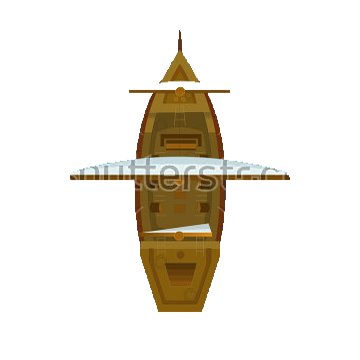
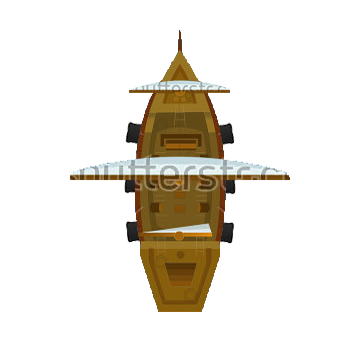
explotion sprite fix, crosshair cooldown indicator

diff --git a/public/main.js b/public/main.js
@@ -284,6 +284,27 @@ function drawPlayer(){
         1.125*Math.PI);
     ctx.stroke();
 
+    ctx.strokeStyle = 'rgba(0,0,0,0.09)';
+    ctx.lineWidth=3;
+    ctx.beginPath();
+    var rcooldown = 0.125 - (player.attack.right.cooldown / 180 * 0.25);
+    ctx.arc(
+        0,
+        0,
+        200,
+        rcooldown*Math.PI,
+        0.125*Math.PI);
+    ctx.stroke();
+    var lcooldown = 0.875 + (player.attack.left.cooldown / 180 * 0.25);
+    ctx.beginPath();
+    ctx.arc(
+        0,
+        0,
+        200,
+        0.875*Math.PI,
+        lcooldown*Math.PI);
+    ctx.stroke();
+
     ctx.drawImage(playerImg, -(tile.width / 2), -(tile.height / 2), tile.width, tile.height);
     ctx.restore();
 }
@@ -332,7 +353,7 @@ function drawPlayers(){
                     (playerlist[i].attack.left.x - range.x.min) * tile.width - offset.center.x - offset.player.x,   //X
                     (playerlist[i].attack.left.y - range.y.min) * tile.height - offset.center.y - offset.player.y   //Y
                 );
-                ctx.drawImage(explotionImg, Math.floor(playerlist[i].attack.left.progr / 2) * 128, 0, 128, 128, -(tile.width/2), -(tile.height/2), (tile.width), (tile.height));
+                ctx.drawImage(explotionImg, Math.floor(playerlist[i].attack.left.progr) * 128, 0, 128, 128, -(tile.width/2), -(tile.height/2), (tile.width), (tile.height));
                 ctx.restore();
             }
 
@@ -342,7 +363,7 @@ function drawPlayers(){
                     (playerlist[i].attack.right.x - range.x.min) * tile.width - offset.center.x - offset.player.x,   //X
                     (playerlist[i].attack.right.y - range.y.min) * tile.height - offset.center.y - offset.player.y   //Y
                 );
-                ctx.drawImage(explotionImg, Math.floor(playerlist[i].attack.right.progr / 2) * 128, 0, 128, 128, -(tile.width/2), -(tile.height/2), (tile.width), (tile.height));
+                ctx.drawImage(explotionImg, Math.floor(playerlist[i].attack.right.progr) * 128, 0, 128, 128, -(tile.width/2), -(tile.height/2), (tile.width), (tile.height));
                 ctx.restore();
             }
 
